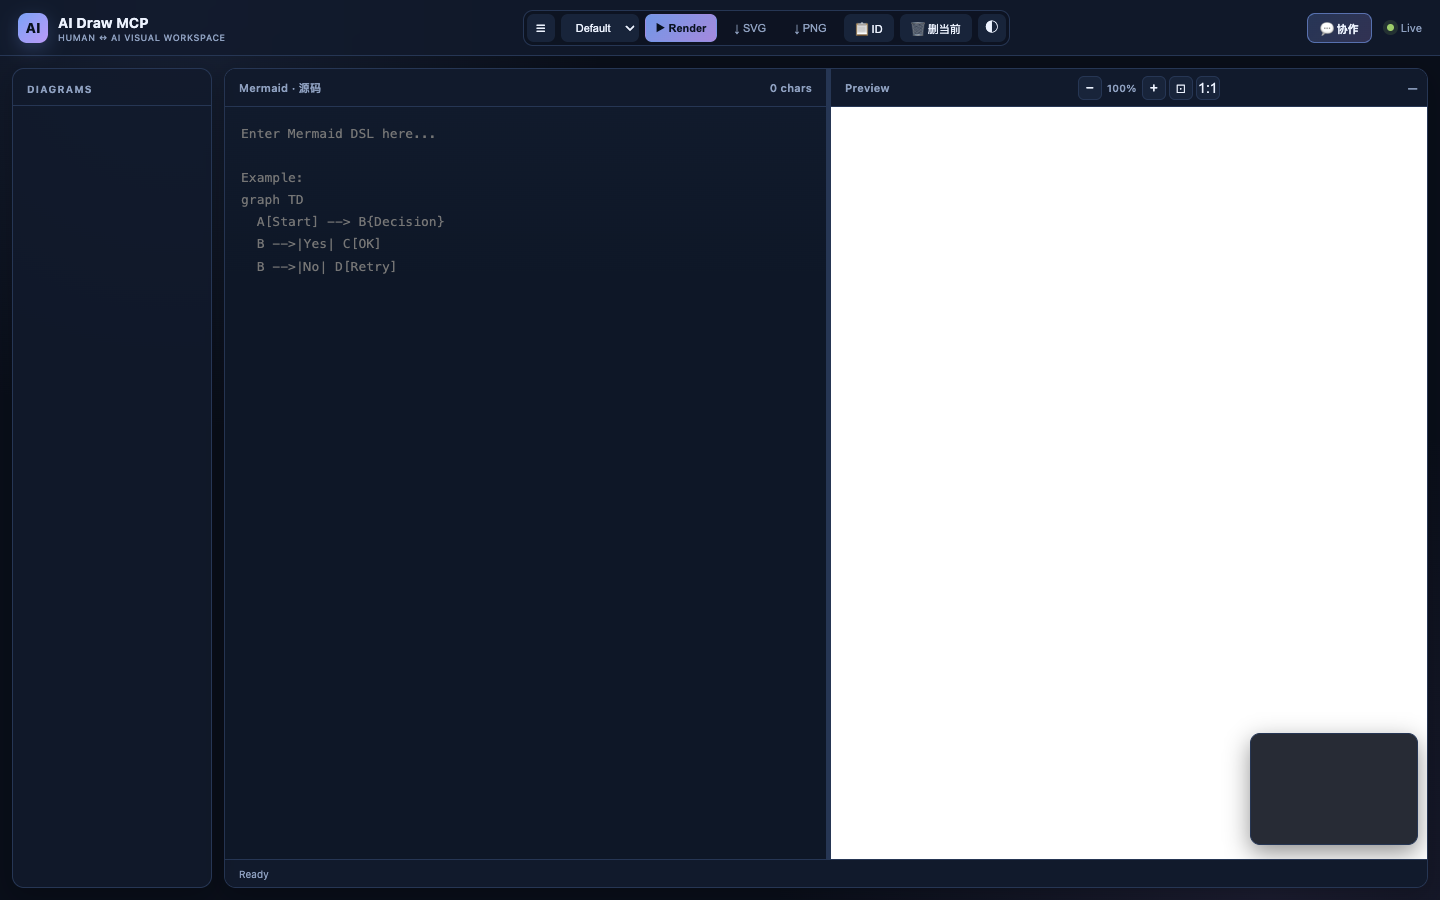
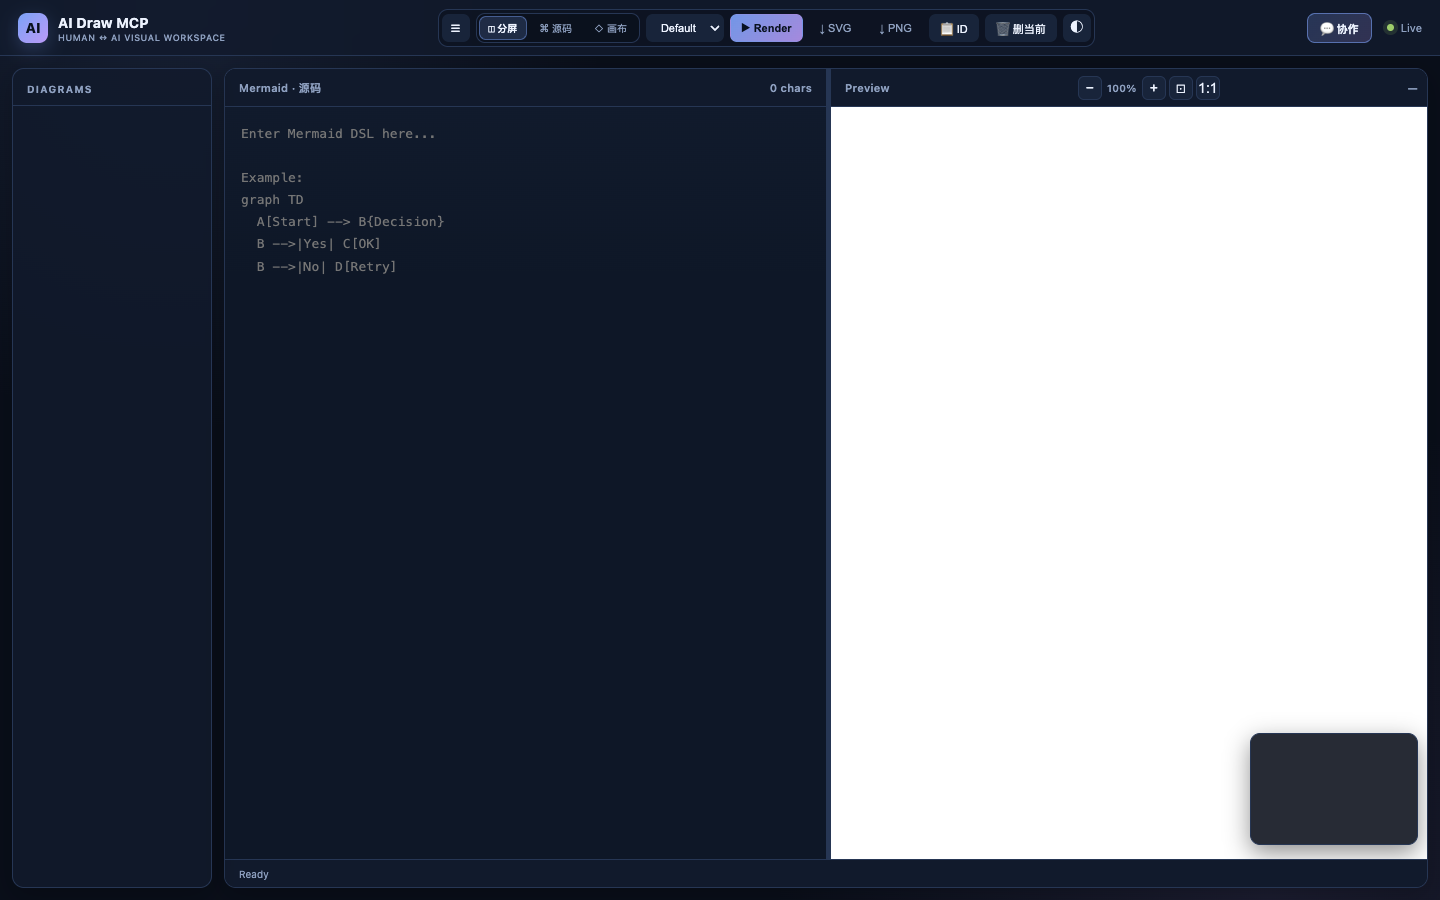
feat: add persistent workspace view modes

Changed region(s): [[0.3125, 0.0, 0.75, 0.0622]]

diff --git a/src/infra/templates/index.html b/src/infra/templates/index.html
@@ -208,6 +208,19 @@
     }
     .toolbar button.subtle, .collab-actions button.subtle { background: transparent; color: var(--text-muted); }
     .toolbar button.subtle:hover, .collab-actions button.subtle:hover { color: var(--text); background: rgba(122,162,247,.12); }
+    .view-switch { display: flex; align-items: center; gap: 2px; padding: 2px; border: 1px solid var(--border); border-radius: 9px; background: rgba(9,14,25,.55); }
+    .view-switch button { height: 24px; padding: 0 9px; border-color: transparent; background: transparent; color: var(--text-muted); font-size: 10px; }
+    .view-switch button.active { background: rgba(122,162,247,.18); color: var(--text); border-color: rgba(122,162,247,.42); font-weight: 700; }
+    .workspace[data-view="source"] #previewPane, .workspace[data-view="canvas"] #editorPane, .workspace[data-view="source"] #divider, .workspace[data-view="canvas"] #divider { display: none; }
+    .workspace[data-view="source"] #editorPane, .workspace[data-view="canvas"] #previewPane { flex: 1 1 100% !important; }
+    .canvas-chip {
+      position: absolute; left: 14px; bottom: 14px; z-index: 21; display: none;
+      align-items: center; gap: 7px; padding: 7px 10px; border: 1px solid var(--border);
+      border-radius: 999px; background: rgba(9,14,25,.84); color: var(--text-muted); font-size: 10px;
+      backdrop-filter: blur(10px); box-shadow: 0 6px 18px rgba(0,0,0,.25);
+    }
+    .canvas-chip::before { content: ''; width: 6px; height: 6px; border-radius: 50%; background: var(--accent); }
+    .workspace[data-view="canvas"] .canvas-chip { display: flex; }
     button:focus-visible, select:focus-visible, input:focus-visible, textarea:focus-visible, summary:focus-visible {
       outline: 2px solid rgba(122,162,247,.85); outline-offset: 2px;
     }
@@ -476,6 +489,11 @@
   </div>
   <div class="toolbar">
     <button class="btn-icon" id="btnToggleSidebar" title="Toggle sidebar">☰</button>
+    <div class="view-switch" role="group" aria-label="工作区视图">
+      <button type="button" class="active" data-view-target="split" title="分屏视图（1）">◫ 分屏</button>
+      <button type="button" data-view-target="source" title="源码视图（2）">⌘ 源码</button>
+      <button type="button" data-view-target="canvas" title="画布视图（3）">◇ 画布</button>
+    </div>
     <select id="selTheme">
       <option value="default">Default</option>
       <option value="dark">Dark</option>
@@ -503,7 +521,7 @@
     <div class="sidebar-resize" id="sidebarResize"></div>
   </aside>
 
-  <div class="workspace">
+  <div class="workspace" id="workspace" data-view="split">
     <div class="panes">
       <div class="pane" id="editorPane">
         <div class="pane-header">
@@ -534,6 +552,7 @@
             <div id="minimapContent"></div>
             <div id="minimapViewport"></div>
           </div>
+          <div class="canvas-chip">画布模式 · 滚轮缩放 / 拖拽平移 / F 适应窗口</div>
         </div>
       </div>
     </div>
@@ -698,6 +717,7 @@ const PREFS_DEFAULT = {
   splitPct: 50,          // editor pane width %
   theme: 'default',
   darkBg: false,
+  viewMode: 'split',
   lastDiagramId: null,
 };
 let prefs = { ...PREFS_DEFAULT };
@@ -729,6 +749,20 @@ function applyPrefs() {
   }
   // Dark background
   if (prefs.darkBg) $('#previewWrap').classList.add('dark-bg');
+  setWorkspaceView(prefs.viewMode || 'split', false);
+}
+
+function setWorkspaceView(view, persist = true) {
+  const allowed = new Set(['split', 'source', 'canvas']);
+  const next = allowed.has(view) ? view : 'split';
+  $('#workspace').dataset.view = next;
+  for (const button of document.querySelectorAll('.view-switch button')) {
+    button.classList.toggle('active', button.dataset.viewTarget === next);
+  }
+  if (persist) {
+    prefs.viewMode = next;
+    savePrefs();
+  }
 }
 
 loadPrefs();
@@ -866,6 +900,11 @@ window.addEventListener('keydown', (e) => {
     return;
   }
   if (document.activeElement === $('#codeEditor')) return;
+  if (!e.metaKey && !e.ctrlKey && !e.altKey && ['1', '2', '3'].includes(e.key)) {
+    e.preventDefault();
+    setWorkspaceView({ 1: 'split', 2: 'source', 3: 'canvas' }[e.key]);
+    return;
+  }
   if (e.key === 'f' || e.key === 'F') fitView();
   if (e.key === '0') resetView();
 });
@@ -2527,8 +2566,11 @@ for (const tab of document.querySelectorAll('.collab-tab')) {
   });
 }
 $('#btnCommandHint').addEventListener('click', () => {
-  showToast('快捷键：C 打开协作 · Esc 关闭 · F 适应窗口 · 0 重置缩放 · ⌘/Ctrl+Enter 渲染或发送', 4200);
+  showToast('快捷键：1 分屏 · 2 源码 · 3 画布 · C 协作 · Esc 关闭 · F 适应窗口 · 0 重置缩放 · ⌘/Ctrl+Enter 渲染或发送', 4800);
 });
+for (const button of document.querySelectorAll('.view-switch button')) {
+  button.addEventListener('click', () => setWorkspaceView(button.dataset.viewTarget));
+}
 $('#btnGraphMore').addEventListener('click', (event) => {
   const group = $('#graphMoreActions');
   group.classList.toggle('open');

diff --git a/CHANGELOG.md b/CHANGELOG.md
@@ -12,6 +12,7 @@ The format is based on [Keep a Changelog](https://keepachangelog.com/en/1.1.0/),
 
 ### Maintenance
 
+- 视图模式迭代（2026-11-06 09:55 CST）：顶部新增「分屏 / 源码 / 画布」分段切换，支持 `1` / `2` / `3` 快捷键与 localStorage 持久化；源码模式只显示编辑器，画布模式隐藏源码并显示底部画布状态 chip，分屏模式恢复原有可拖拽比例。视图偏好与主题/背景/侧栏/分栏偏好共用同一份本地偏好，不进入协作会话、不改图修订或写入闸门；UI 回归测试与离线守卫覆盖三种视图切换。
 - 前端可验证性与操作降噪（2026-11-06 09:48 CST）：新增 `test/panel-ui.test.mjs` 真实浏览器回归，覆盖品牌栏、主操作层级、`C`/`Esc` 快捷键、上下文折叠组、概览统计、固定操作栏、空状态、桌面无溢出与 900px 以下标签页；新增 `npm run ui:shots` 可复现生成 README 的两张 1440×900 截图。固定操作区把低频导入/复制动作收进可展开「更多」，消息输入框增加 2000 字计数与快捷键说明，提案栏补「写入闸门」说明；覆盖复制成功、扫描中、入场动画、焦点可见和 reduced-motion 反馈。测试从 23/79 增至 24/80，打包从 275 增至 276 文件；仍不改 MCP 工具、JSON 契约、人工批准或项目写入边界。
 - 前端交互迭代（2026-11-06 09:38 CST）：协作工作台新增概览统计条、可折叠上下文组、独立滚动区与固定操作栏；桌面保留三栏，900px 以下切换为「项目图 / 对话 / 提案」标签页。工具栏与操作按钮建立主次层级，补 `C` 打开协作、`Esc` 关闭、`F` 适应窗口、`0` 重置缩放、`⌘/Ctrl+Enter` 渲染或发送的提示；增加复制成功、扫描中、入场动画、焦点可见、自定义滚动条和 `prefers-reduced-motion` 支持。纯前端 CSS/静态结构与派生 UI 状态，不改 MCP 工具、JSON 契约、人工批准或项目写入边界；离线守卫覆盖交互标记。
 - 外观刷新（2026-11-06 09:22 CST）：预览面板改为品牌化顶栏、玻璃感导航、卡片式侧栏/三栏协作工作台、分段图标、紧凑诊断卡和提案空状态；README 用真实运行截图替换早期「11 个工具」旧图，并新增协作工作台截图。纯 CSS/静态结构与文档资源变化，不改 MCP 工具、JSON 契约、人工批准或项目写入边界，由离线守卫覆盖新版界面标记。

diff --git a/README.md b/README.md
@@ -39,6 +39,8 @@
 
 新版界面采用品牌化顶栏、玻璃感导航、卡片式侧栏与圆角工作区，保留滚轮缩放、拖拽平移、右下角小地图导航、双击重置、适应窗口（`F` 键）、明暗背景切换、SVG/PNG 导出等能力。
 
+顶部可在「分屏 / 源码 / 画布」之间切换（`1` / `2` / `3`），视图偏好会保存在本机；协作工作台支持 `C` 打开、`Esc` 关闭，并在窄屏自动变成「项目图 / 对话 / 提案」标签页。
+
 ### 双向协作工作台
 
 ![AI Draw MCP 双向协作工作台](https://raw.githubusercontent.com/2648782102/ai-draw-mcp/master/docs/collaboration-workbench-panel.png)
